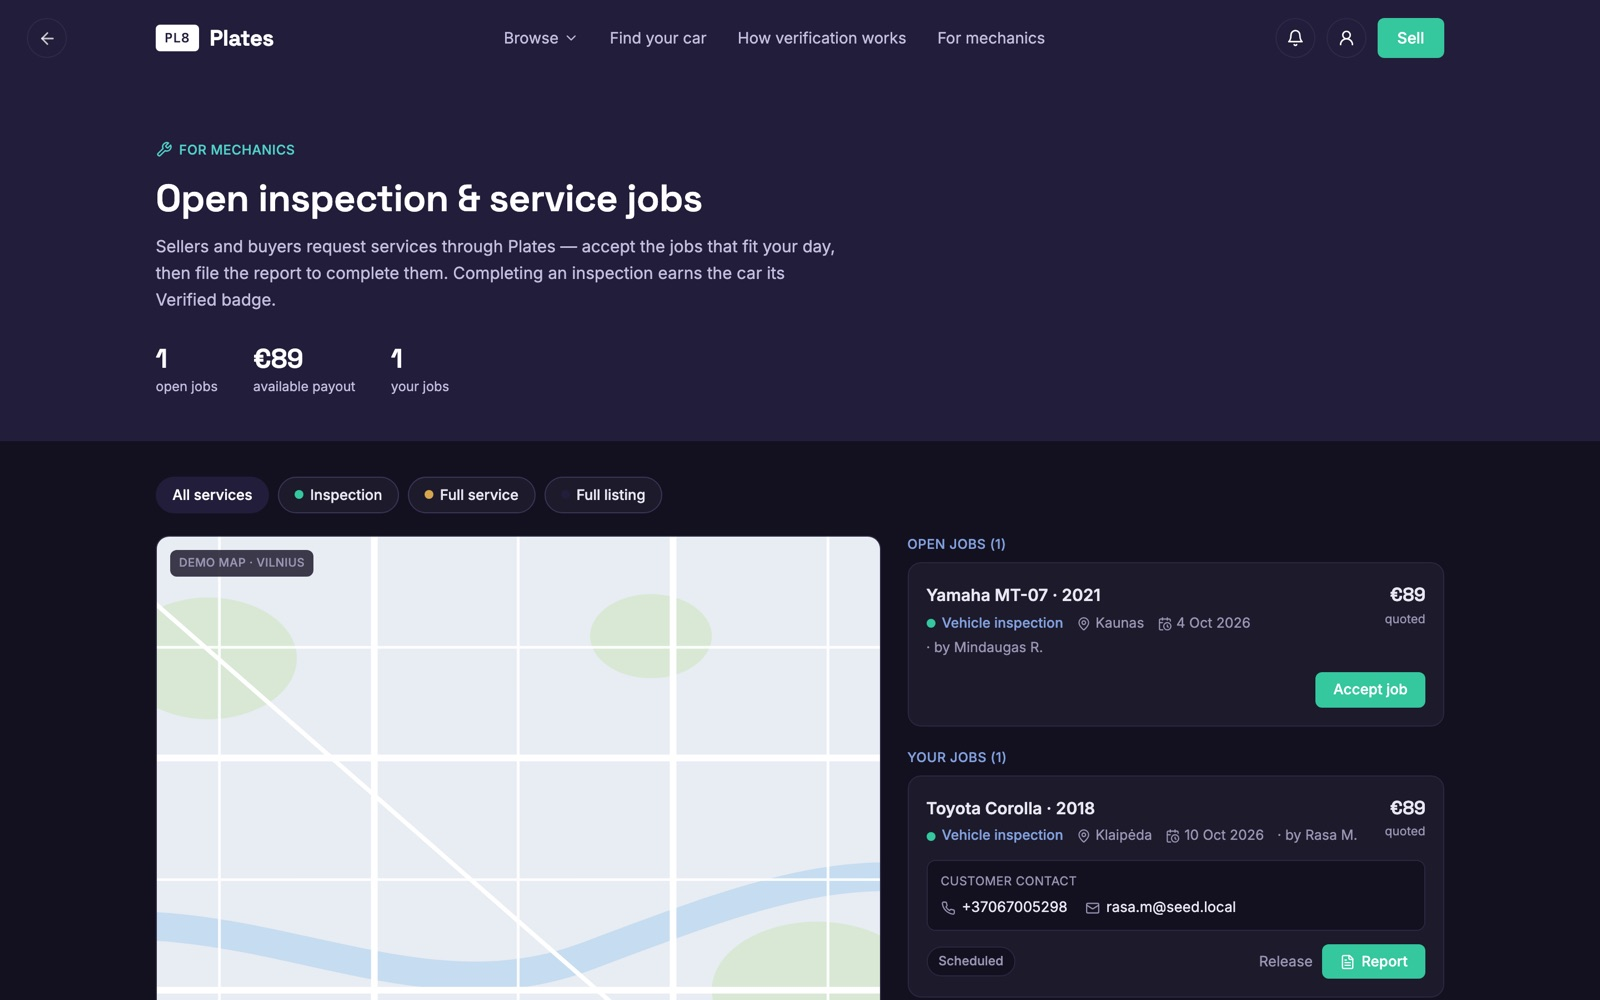
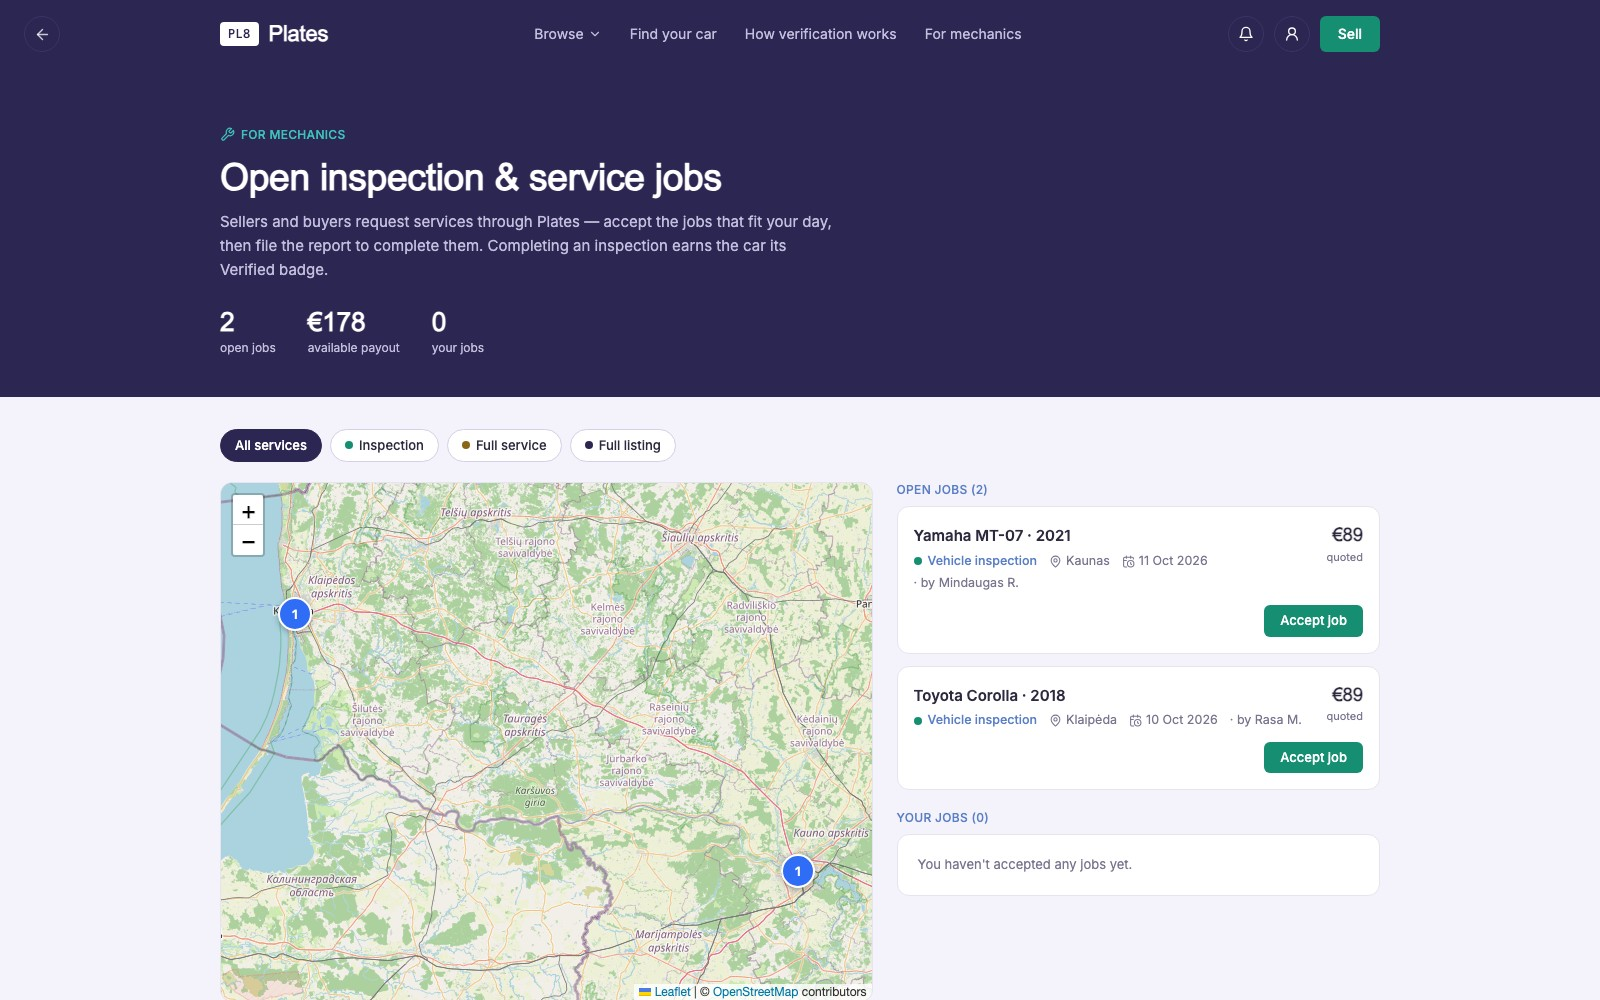
Refresh home + mechanics screenshots on the live page
The mechanics board now shows the real interactive map (Leaflet +
OpenStreetMap) with jobs placed by city; the home hero is the current
photo-less design. Updates the two images, their alt text and the
mechanics caption, and adds ?v=2 cache-busting so browsers fetch the
new images instead of the cached old ones.

(Mirrors the same change already merged in the CarsMarket source copy.)

diff --git a/index.html b/index.html
@@ -425,7 +425,7 @@
       <figure class="shot shot-wide">
         <div class="browser">
           <div class="browser-bar"><span class="dot"></span><span class="dot"></span><span class="dot"></span><span class="url">plates.app</span></div>
-          <img src="what-is-plates-assets/01-home-hero.jpg" alt="Plates home page — a full-screen hero over an independently inspected car" loading="lazy" width="1600" height="1000">
+          <img src="what-is-plates-assets/01-home-hero.jpg?v=2" alt="Plates home page — a full-screen hero reading &quot;Every listing, fully declared.&quot; with search and quiz entry points" loading="lazy" width="1600" height="1000">
         </div>
         <figcaption>
           <h3>A front door built on trust</h3>
@@ -475,11 +475,11 @@
       <figure class="shot">
         <div class="browser">
           <div class="browser-bar"><span class="dot"></span><span class="dot"></span><span class="dot"></span><span class="url">plates.app/mechanics</span></div>
-          <img src="what-is-plates-assets/06-mechanics.jpg" alt="Mechanics jobs board with open jobs and an assigned job revealing the customer's contact" loading="lazy" width="1600" height="1000">
+          <img src="what-is-plates-assets/06-mechanics.jpg?v=2" alt="Mechanics jobs board — open inspection and service jobs shown on an interactive map of Lithuania, placed by city" loading="lazy" width="1600" height="1000">
         </div>
         <figcaption>
           <h3>Mechanics work a live jobs board</h3>
-          <p>Open inspection and service jobs to accept, plus assigned jobs that reveal the customer's contact — booked through Plates.</p>
+          <p>Open inspection and service jobs on an interactive map — placed by city, so a mechanic grabs what fits their day and arranges the exact address with the customer directly.</p>
         </figcaption>
       </figure>
     </div>
